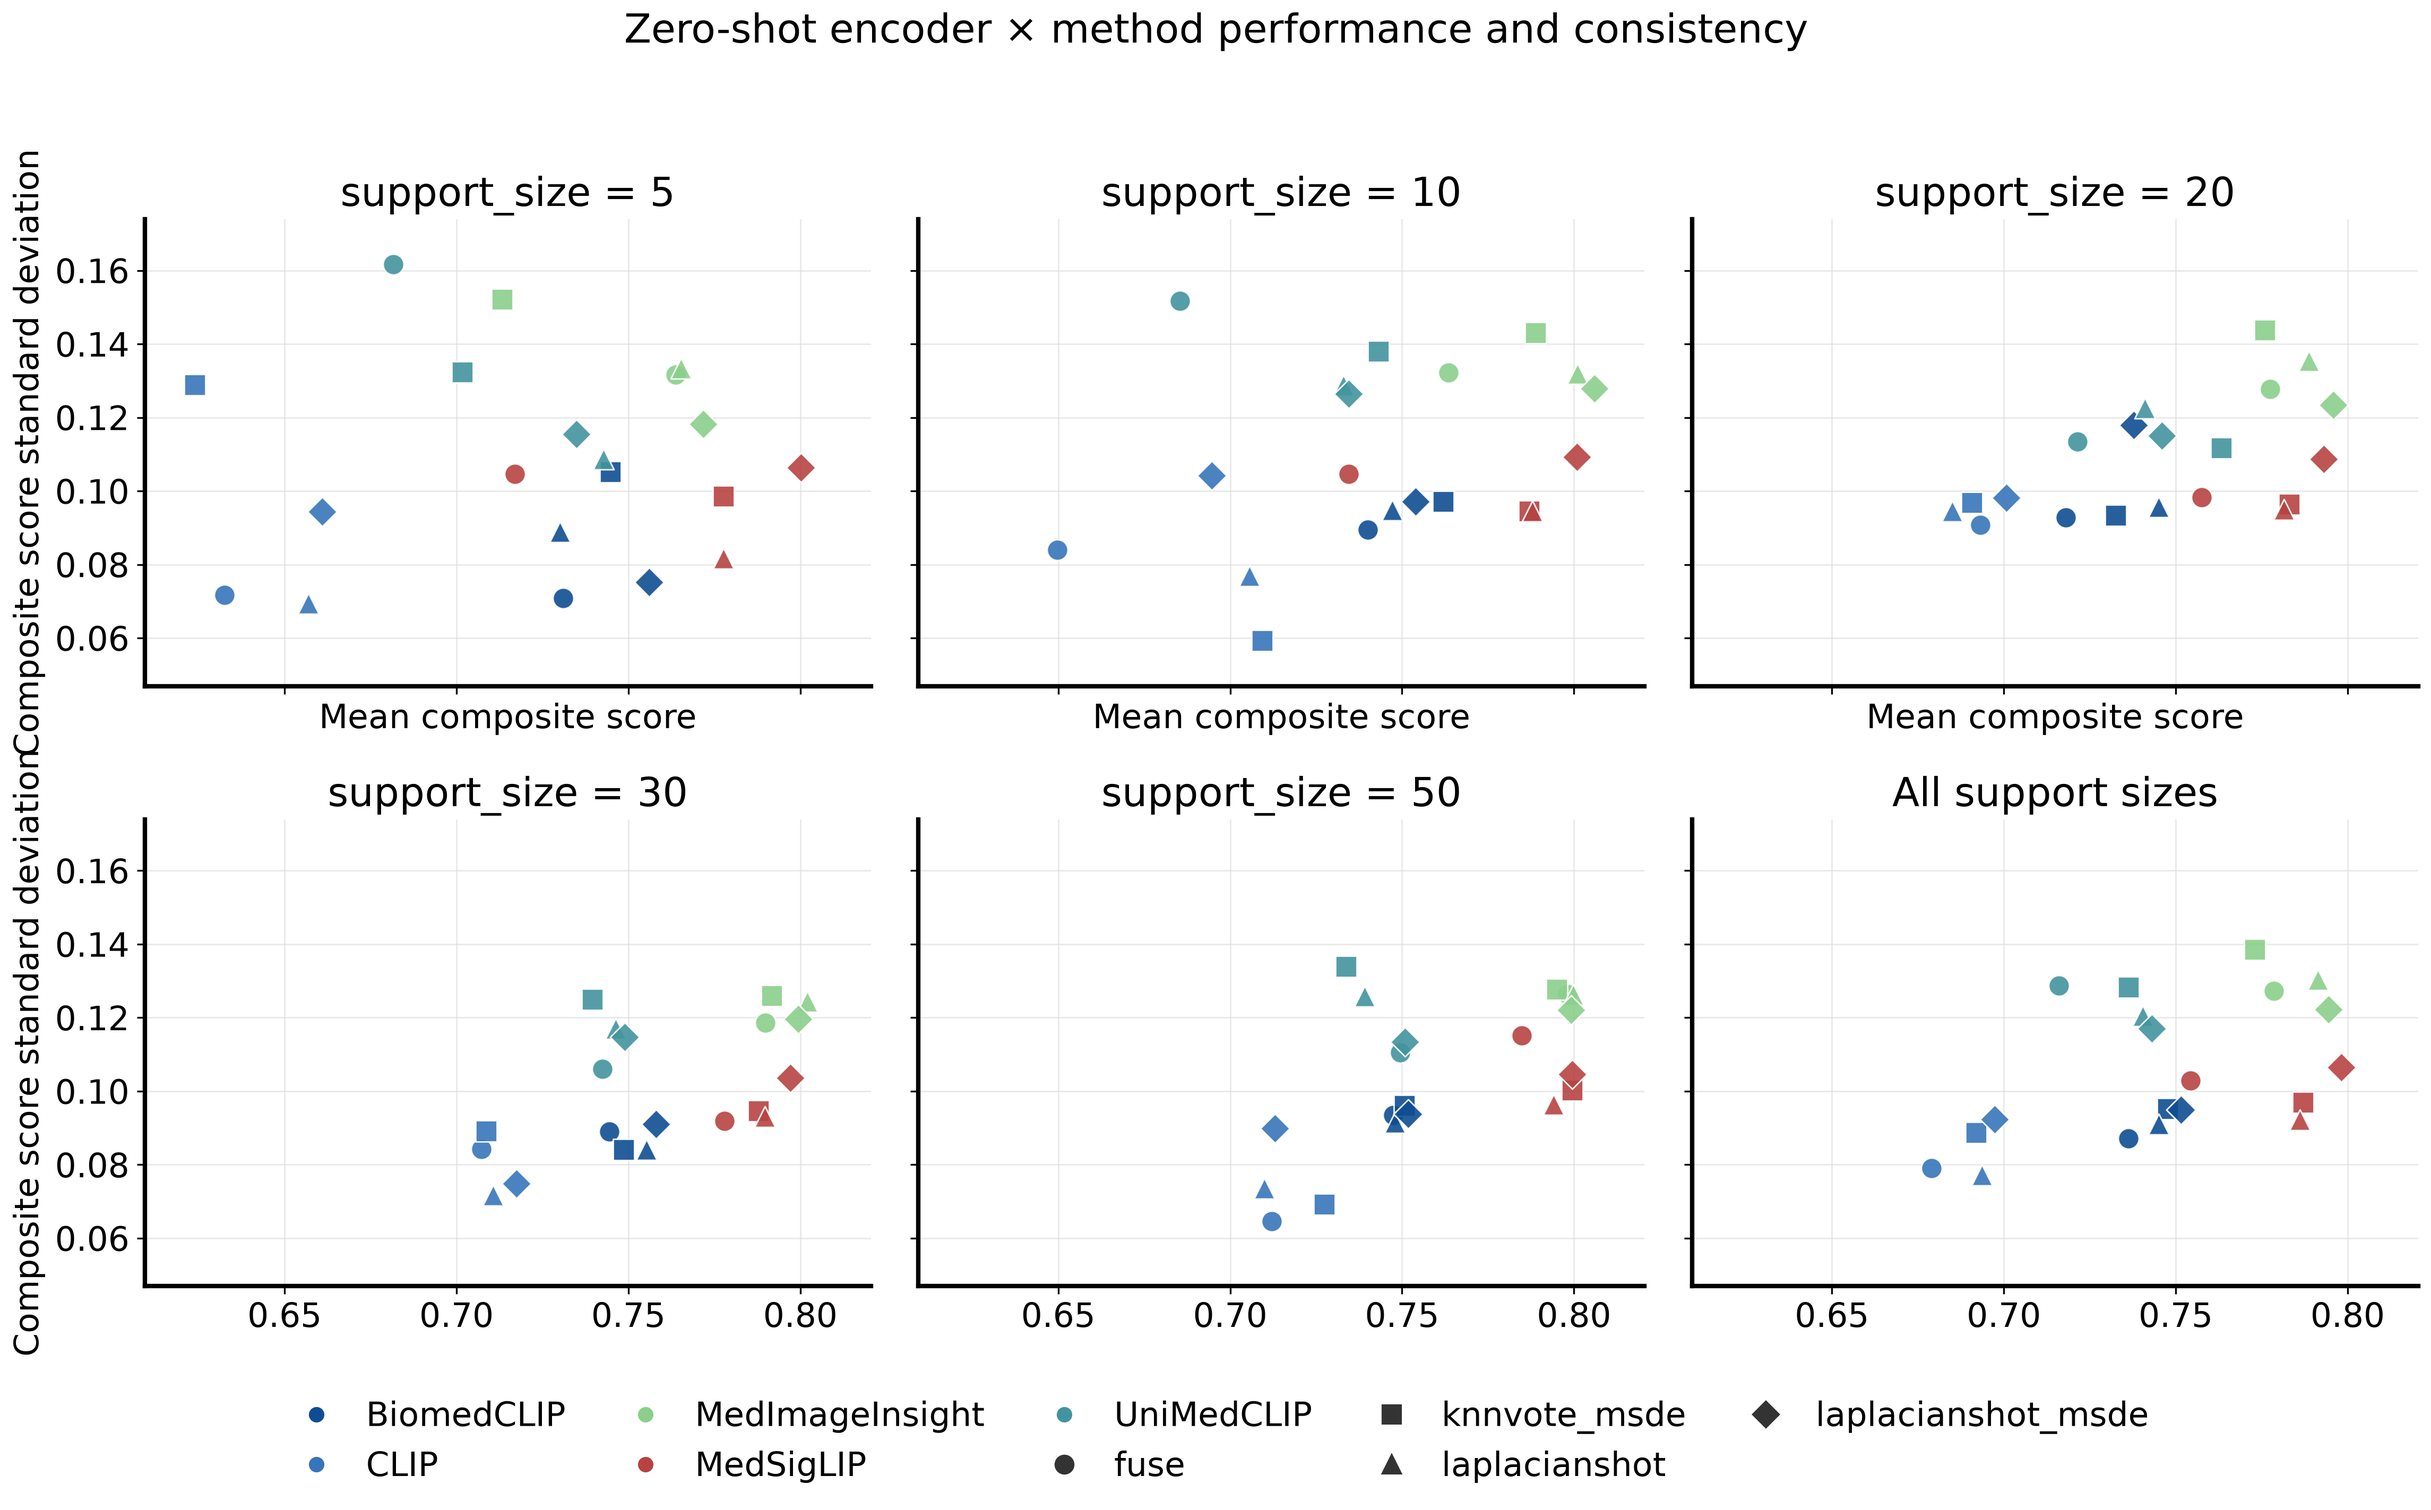
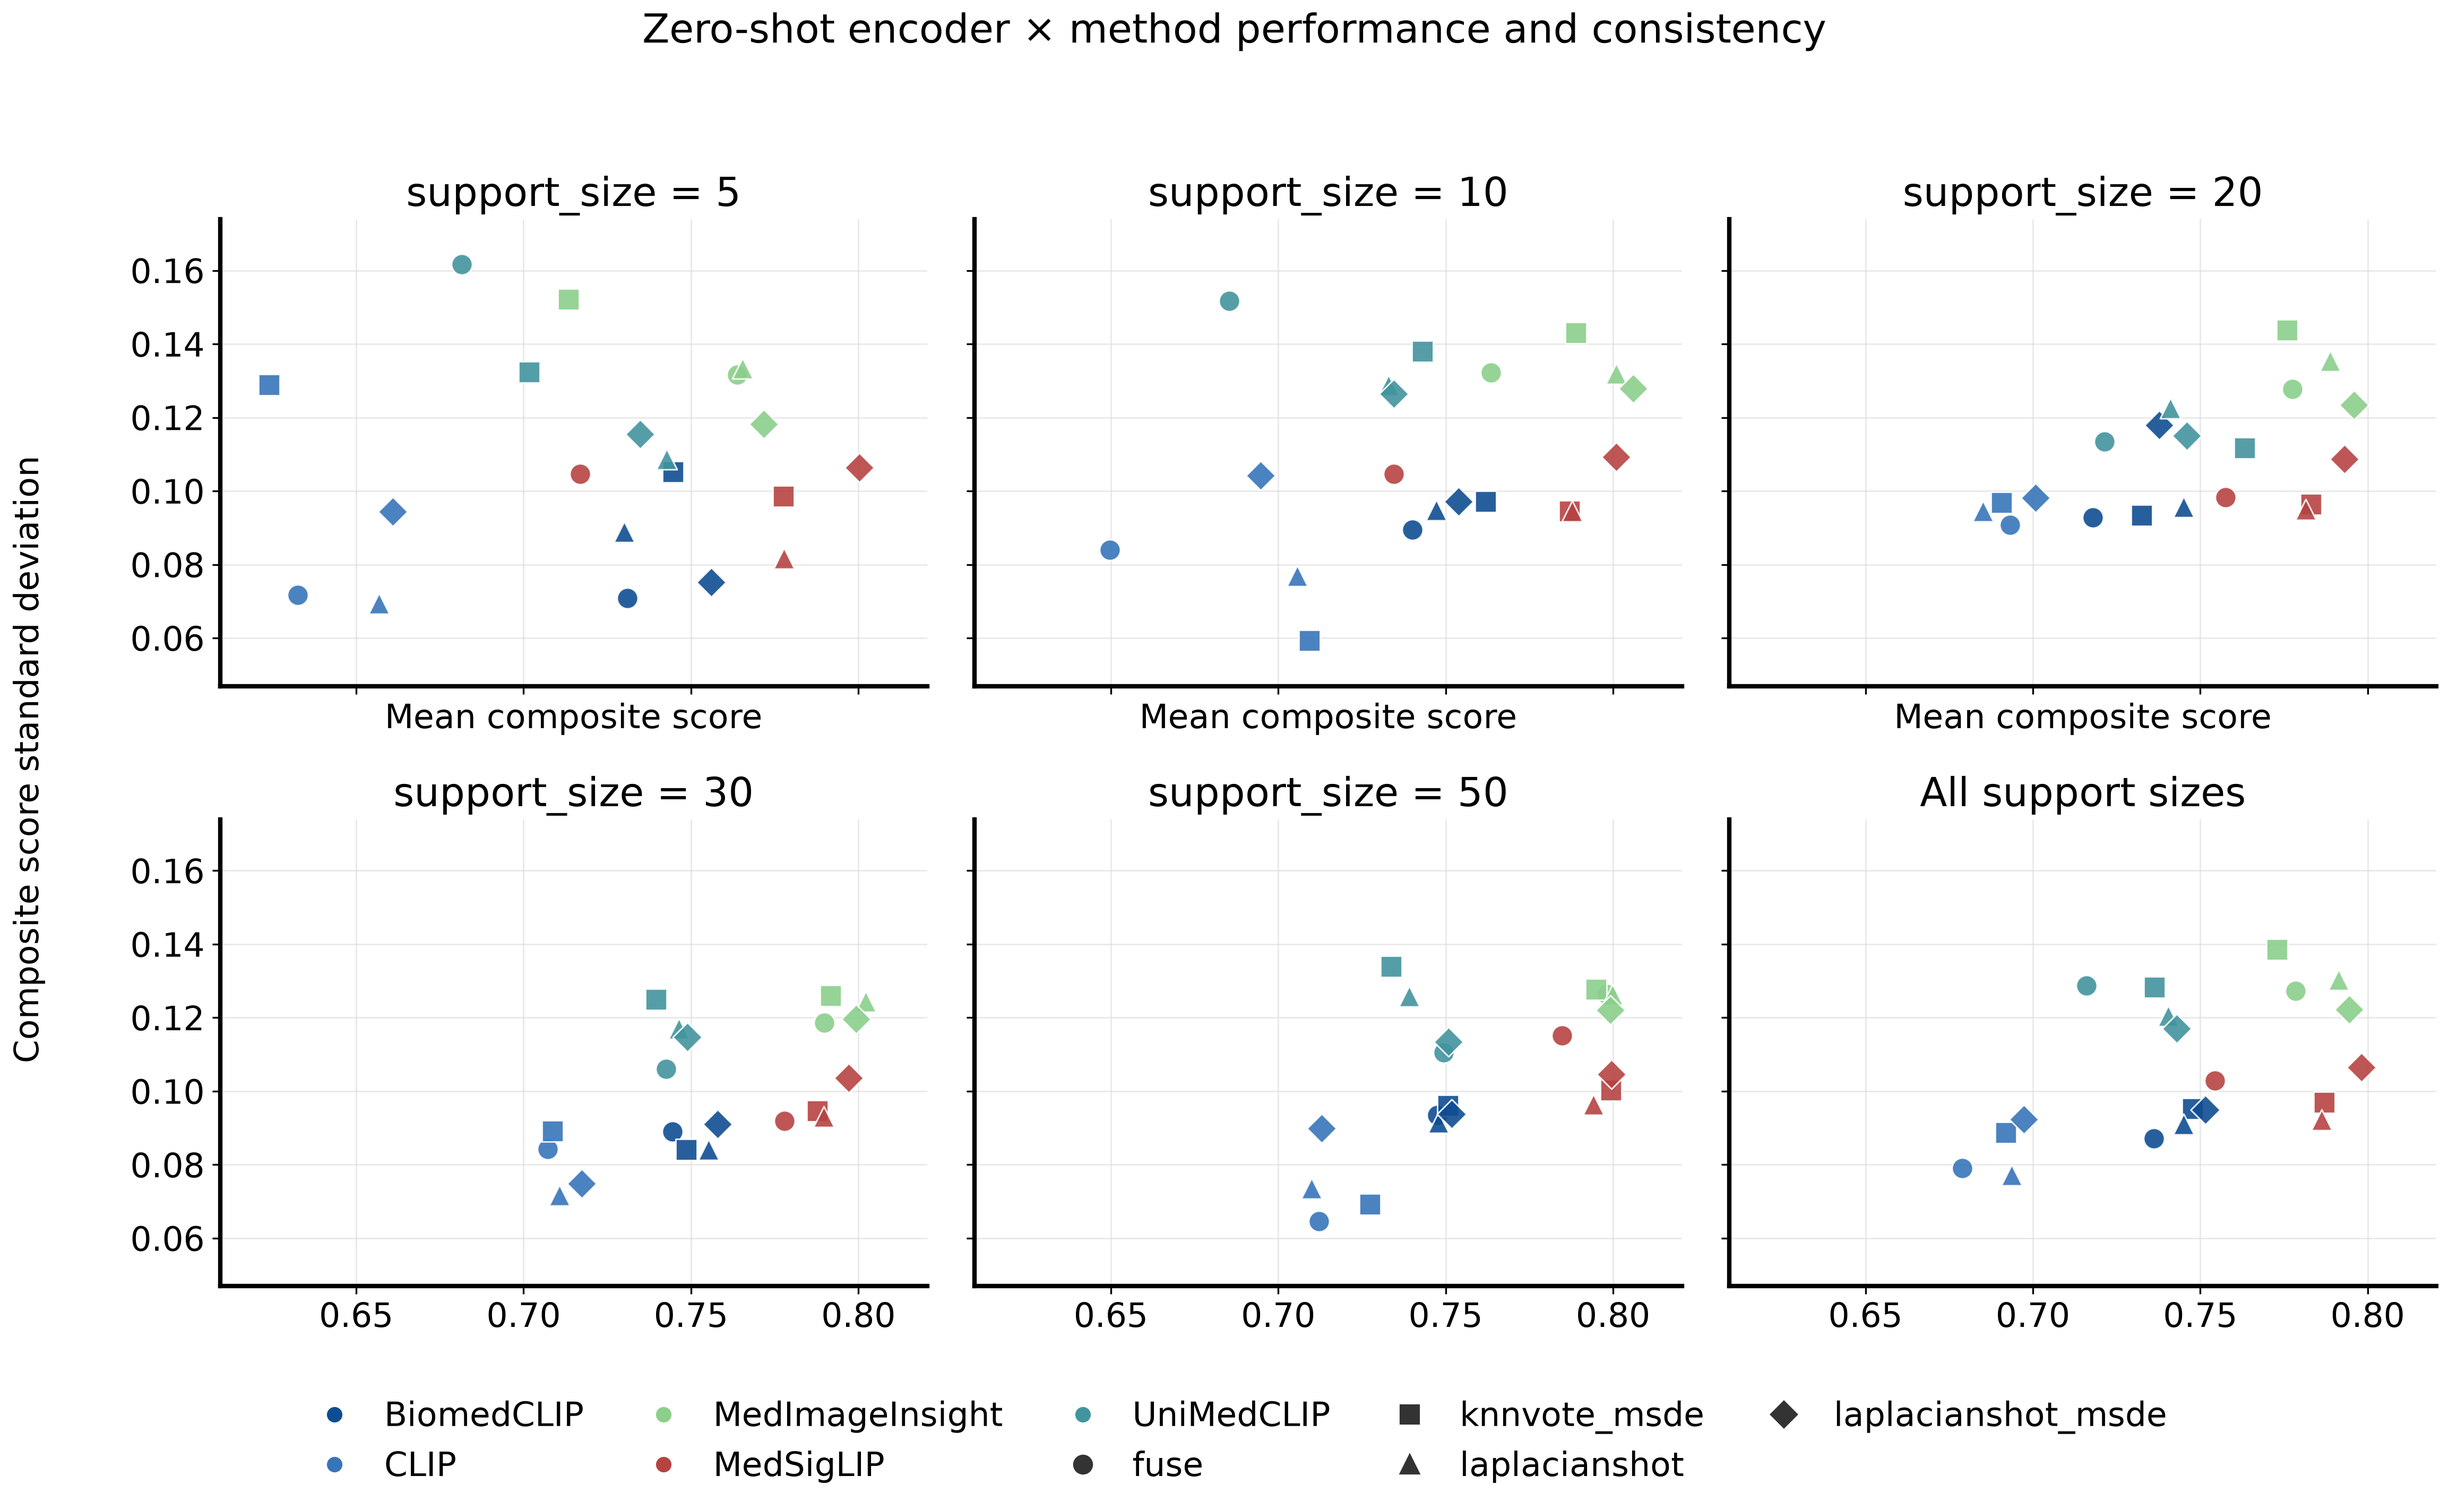
add claude

diff --git a/plots/zero_shot_encoder_method_consistency.py b/plots/zero_shot_encoder_method_consistency.py
@@ -246,8 +246,14 @@ def plot_scores(scores: pd.DataFrame, output_stem: Path = DEFAULT_OUTPUT_STEM) -
         axis.set_visible(False)
     for axis in axes[:ncols]:
         axis.set_xlabel("Mean composite score")
-    for axis in axes[::ncols]:
-        axis.set_ylabel("Composite score standard deviation")
+    fig.text(
+        0.015,
+        0.5,
+        "Composite score standard deviation",
+        rotation="vertical",
+        va="center",
+        ha="center",
+    )
 
     encoder_handles = [
         Line2D([0], [0], marker="o", color="none", markerfacecolor=encoder_colors[name],
@@ -268,7 +274,7 @@ def plot_scores(scores: pd.DataFrame, output_stem: Path = DEFAULT_OUTPUT_STEM) -
         handletextpad=0.5,
     )
     fig.suptitle("Zero-shot encoder × method performance and consistency", y=1.01)
-    fig.tight_layout(rect=(0, 0.08, 1, 0.98), pad=1.2)
+    fig.tight_layout(rect=(0.04, 0.08, 1, 0.98), pad=1.2)
 
     output_stem.parent.mkdir(parents=True, exist_ok=True)
     outputs = [output_stem.with_suffix(".png"), output_stem.with_suffix(".pdf")]
